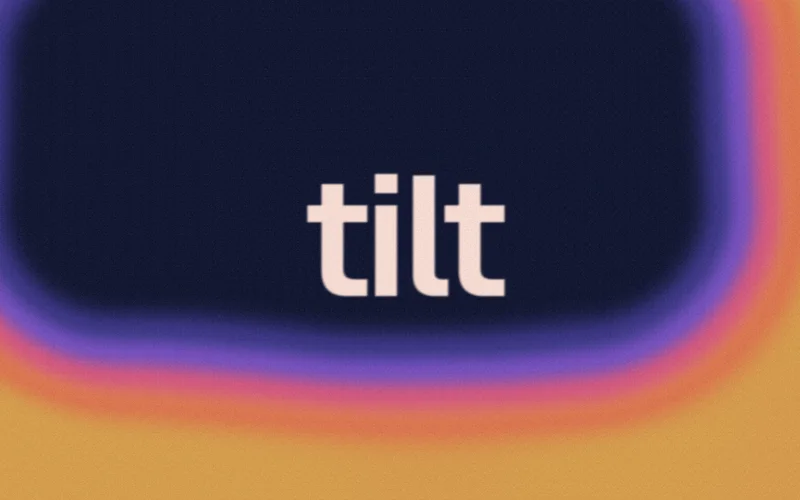
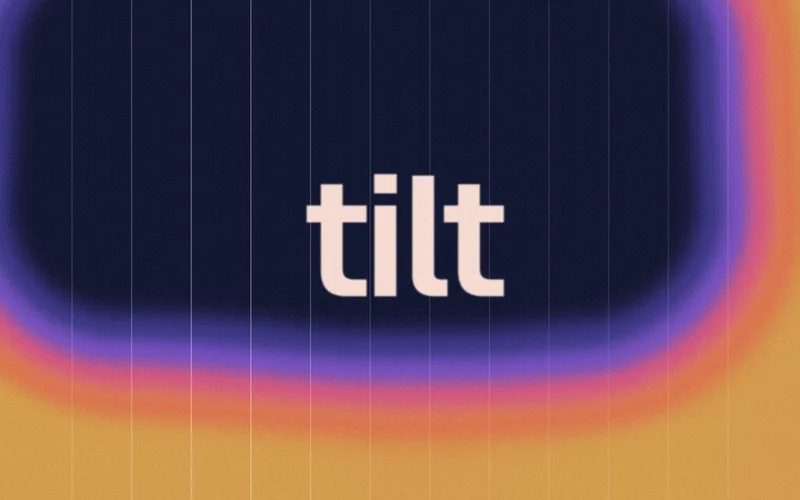
Tilt: refined start screen, idle harp strings, new thumbnail, no blurb
Claude-Session: https://claude.ai/code/session_01Y3AaQQr9PLbA89msM4a35n

diff --git a/tilt.html b/tilt.html
@@ -31,27 +31,31 @@
   .big { display: none; font-size: clamp(40px, 13vw, 76px); font-weight: 600; letter-spacing: -0.055em; line-height: .9; white-space: nowrap; opacity: .92; }
   .sub { margin-top: 0; font-size: 12px; opacity: .6; min-height: 1.2em; white-space: nowrap; }
   .gate {
-    position: fixed; inset: 0; display: grid; place-items: end center; text-align: center;
-    padding: 32px 32px max(9vh, env(safe-area-inset-bottom));
-    transition: opacity .8s; cursor: pointer; background: rgba(11,13,18,.25);
+    position: fixed; inset: 0; display: flex; flex-direction: column; justify-content: space-between;
+    padding: max(20px, env(safe-area-inset-top)) 24px max(24px, env(safe-area-inset-bottom));
+    transition: opacity .8s, transform .8s; cursor: pointer;
   }
+  .gate.gone { transform: scale(1.03); }
+  .gate .top { display: flex; justify-content: space-between; font-size: 12px; letter-spacing: -0.005em; opacity: .62; }
+  .gate .steps { list-style: none; counter-reset: s; margin: 0 0 22px; }
+  .gate .steps li { counter-increment: s; display: grid; grid-template-columns: 30px 1fr; align-items: baseline;
+                    font-size: 16px; line-height: 1.3; letter-spacing: -0.015em; font-weight: 450; padding: 12px 0;
+                    border-top: 1px solid rgba(255,255,255,.16); }
+  .gate .steps li::before { content: counter(s, decimal-leading-zero); font-size: 11px; opacity: .5; font-variant-numeric: tabular-nums; }
+  .gate .go { display: flex; justify-content: space-between; align-items: center; width: 100%; height: 54px; padding: 0 22px;
+              border-radius: 999px; background: rgba(255,255,255,.95); color: #0b0d12; font-size: 15px; font-weight: 600; letter-spacing: -0.01em; }
   .gate.gone { opacity: 0; pointer-events: none; }
-  .gate h2 { font-size: clamp(44px, 15vw, 88px); font-weight: 600; letter-spacing: -0.055em; line-height: .9; }
-  .gate ol { list-style: none; margin: 26px auto 0; max-width: 30ch; font-size: 14px; line-height: 1.5; opacity: .82; }
-  .gate li + li { margin-top: 8px; }
   .gate .small { margin-top: 18px; font-size: 12px; opacity: .55; line-height: 1.45; max-width: 30ch; margin-left: auto; margin-right: auto; }
   .toast { position: fixed; left: 50%; bottom: max(28px, env(safe-area-inset-bottom)); transform: translate(-50%, 20px); opacity: 0;
            font-size: 12px; padding: 9px 14px; border-radius: 999px; background: rgba(255,255,255,.14);
            backdrop-filter: blur(20px); -webkit-backdrop-filter: blur(20px); transition: opacity .5s, transform .5s; pointer-events: none; white-space: nowrap; }
   .toast.on { opacity: 1; transform: translate(-50%, 0); }
-  .gate .tap { margin-top: 32px; display: inline-block; font-size: 14px; font-weight: 600; padding: 13px 22px; border-radius: 999px;
-               background: rgba(255,255,255,.94); color: #0b0d12; }
   .desk { position: fixed; inset: 0; display: none; place-items: center; text-align: center; padding: 40px; }
   .desk h2 { font-size: 64px; font-weight: 600; letter-spacing: -0.055em; line-height: .9; }
   .desk p { margin-top: 16px; font-size: 15px; opacity: .7; }
   .qr { margin: 32px auto 0; width: 156px; height: 156px; padding: 12px; background: #fff; border-radius: 16px; }
   .qr img, .qr canvas { position: static; width: 132px !important; height: 132px !important; }
-  body.thumb .gate, body.thumb .desk, body.thumb .readout, body.thumb #ink { display: none !important; }
+  body.thumb .gate, body.thumb .desk, body.thumb .readout { display: none !important; }
   body.desktop .readout, body.desktop .gate, body.desktop #ink { display: none; }
   body.desktop .desk { display: grid; }
 </style>
@@ -63,13 +67,14 @@
 <div class="readout" id="readout"><div class="big" id="big"></div><div class="sub" id="sub"></div></div>
 
 <div class="gate" id="gate">
+  <div class="top"><span>A phone instrument</span><span>Sound on</span></div>
   <div>
-    <ol aria-label="Tilt">
-      <li>Keep your phone facing you.</li>
-      <li>Tilt left and right to change chords.</li>
-      <li>Strum your screen to play the chord.</li>
+    <ol class="steps" aria-label="Tilt">
+      <li>Keep your phone facing you</li>
+      <li>Tilt left and right to change chords</li>
+      <li>Strum your screen to play the chord</li>
     </ol>
-    <span class="tap">Tap to begin</span>
+    <span class="go">Tap to begin <span>→</span></span>
   </div>
 </div>
 
@@ -323,7 +328,16 @@
   function drawInk(chord, now) {
     ic.setTransform(DPR, 0, 0, DPR, 0, 0);
     ic.clearRect(0, 0, W, H);
-    if (!ctx) return;
+    if (!ctx) {
+      for (const st of strings) {
+        const x = stringX(st.i);
+        const glint = Math.exp(-Math.pow(((now / 2600) % 1.6) - 0.2 - st.i / (STRINGS - 1), 2) * 40);
+        ic.strokeStyle = `rgba(255,255,255,${0.13 + 0.3 * glint})`;
+        ic.lineWidth = 1;
+        ic.beginPath(); ic.moveTo(x, 0); ic.lineTo(x, H); ic.stroke();
+      }
+      return;
+    }
     // the strings: thin lines, bending and glowing where they've been plucked
     ic.save();
     for (const st of strings) {
@@ -587,7 +601,7 @@ void main(){
     if (started) {
       drawWord(wordNow, W / 2, H / 2, 0, Math.min(W * 0.085, 40));
     } else {
-      drawWord('tilt', W / 2, THUMB ? H * 0.5 : H * 0.3, 0, Math.min(W * 0.26, THUMB ? H * 0.34 : 130));
+      drawWord('tilt', W / 2, THUMB ? H * 0.5 : H * 0.34, 0, Math.min(W * 0.3, THUMB ? H * 0.34 : 150));
     }
     gl.activeTexture(gl.TEXTURE0); gl.bindTexture(gl.TEXTURE_2D, ttex);
     gl.texImage2D(gl.TEXTURE_2D, 0, gl.RGBA, gl.RGBA, gl.UNSIGNED_BYTE, tc);

diff --git a/projects.js b/projects.js
@@ -9,7 +9,7 @@ export const PROJECTS = [
     items: [
       { head: "Anywhere" },
       { file: "anywhere.mp4" },
-      { head: "Tilt (phone only)", text: "A tiny instrument for your phone. Tilt it left and right to change chords, strum the screen to play them." },
+      { head: "Tilt (phone only)" },
       { play: "tilt", img: "play-tilt.webp", sm: "play-tilt-sm.webp", caption: "Tilt (phone only)", note: "Open on your phone" },
       { head: "Poké-folio" },
       { play: "rpg", img: "pokefolio-v4.webp", sm: "pokefolio-v4-sm.webp", caption: "Poké-folio", note: "Press start" },
